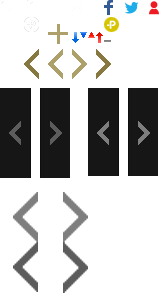
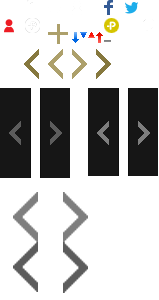
Add files via upload

diff --git a/index.html b/index.html
@@ -11,6 +11,8 @@
     <link rel="stylesheet" href="css/common.css">
     <link rel="stylesheet" href="css/index.css">
     <link rel="stylesheet" type="text/css" href="//cdn.jsdelivr.net/npm/slick-carousel@1.8.1/slick/slick.css" />
+    <link rel="stylesheet" href="https://maxcdn.bootstrapcdn.com/font-awesome/4.7.0/css/font-awesome.min.css">
+    
 
     <script src="//code.jquery.com/jquery-1.11.0.min.js"></script>
     <script src="js/jquery-ui.min.js"></script>
@@ -78,12 +80,27 @@
                 </div><!-- //gnb -->
                 <div class="sns">
                     <ul class="link">
-
-                        <li><a href="#a">search</a></li>
-                        <li><a href="#a">facebook</a></li>
-                        <li><a href="#a">twitter</a></li>
-                        <li><a href="#a">kakao</a></li>
-                        <li><a href="#a">asiae</a></li>
+                        <li>
+                            <a href="#a" title="검색하기">
+                                <i class="fa fa-search" aria-hidden="true"></i>
+                            </a>
+                        </li>
+                        <li>
+                            <a href="https://www.facebook.com/asiaeconomy?_rdr=p">
+                                <i class="fa fa-facebook" aria-hidden="true"></i>
+                            </a>
+                        </li>
+                        <li>
+                            <a href="https://twitter.com/asiae_daily">
+                                <i class="fa fa-twitter" aria-hidden="true"></i>
+                            </a>
+                        </li>
+                        <li>
+                            <a href="https://pf.kakao.com/_CkZed">kakao</a>
+                        </li>
+                        <li>
+                            <a href="https://user.asiae.co.kr/snslogin/index.htm?udt=1">asiae</a>
+                        </li>
                     </ul>
                 </div><!-- //sns -->
             </div><!-- //header -->
@@ -249,19 +266,19 @@
             <div class="content notice">
                 <h4 class="stock_tit">방산기업<span>주가지수</span></h4>
                 <div class="stock">
-                    <ul class="index">
-                        <li>
-                            <em>금호타이어</em>
-                            <p class="txt">
-                                <span>현재가</span>
-                                <span>전일대비</span>
-                            </p>
-                            <p class="number">
-                                <span>4,140</span>
-                                <span class="date up">25</span>
-                            </p>
-                        </li><!-- //index li_01 -->
-                        <li>
+                    <div class="index"> 
+                            <div>  
+                                <em>금호타이어</em>
+                                <p class="txt">
+                                    <span>현재가</span>
+                                    <span>전일대비</span>
+                                </p>
+                                <p class="number">
+                                    <span>4,140</span>
+                                    <span class="date up">25</span>
+                                </p>
+                            </div><!-- //index li_01 -->
+                        <div>
                             <em>기아차</em>
                             <p class="txt">
                                 <span>현재가</span>
@@ -271,8 +288,8 @@
                                 <span>42,500</span>
                                 <span class="date down">450</span>
                             </p>
-                        </li><!-- //index li_02 -->
-                        <li>
+                        </div><!-- //index li_02 -->
+                        <div>
                             <em>대원강업</em>
                             <p class="txt">
                                 <span>현재가</span>
@@ -282,8 +299,8 @@
                                 <span>3,920</span>
                                 <span class="date up">15</span>
                             </p>
-                        </li><!-- //index li_03 -->
-                        <li>
+                        </div><!-- //index li_03 -->
+                        <div>
                             <em>대우조선해양</em>
                             <p class="txt">
                                 <span>현재가</span>
@@ -293,8 +310,8 @@
                                 <span>26,850</span>
                                 <span class="date down">150</span>
                             </p>
-                        </li><!-- //index li_04 -->
-                        <li>
+                        </div><!-- //index li_04 -->
+                        <div>
                             <em>대한항공</em>
                             <p class="txt">
                                 <span>현재가</span>
@@ -304,10 +321,162 @@
                                 <span>23,250</span>
                                 <span class="date up">200</span>
                             </p>
-                        </li><!-- //index li_05 -->
-                    </ul>
-                    <a href="#a" class="btn prev"></a>
-                    <a href="#a" class="btn next"></a>
+                        </div><!-- //index li_05 -->
+                        <div>
+                            <em>두산엔진</em>
+                            <p class="txt">
+                                <span>현재가</span>
+                                <span>전일대비</span>
+                            </p>
+                            <p class="number">
+                                <span>3,140</span>
+                                <span class="date down">125</span>
+                            </p>
+                        </div><!-- //index li_06 -->
+                        <div>
+                            <em>두산인프라코어</em>
+                            <p class="txt">
+                                <span>현재가</span>
+                                <span>전일대비</span>
+                            </p>
+                            <p class="number">
+                                <span>6,080</span>
+                                <span class="date down">40</span>
+                            </p>
+                        </div><!-- //index li_07 -->
+                        <div>
+                            <em>두산중공업</em>
+                            <p class="txt">
+                                <span>현재가</span>
+                                <span>전일대비</span>
+                            </p>
+                            <p class="number">
+                                <span>5,770</span>
+                                <span class="date down">120</span>
+                            </p>
+                        </div><!-- //index li_08 -->
+                        <div>
+                            <em>삼성테크원</em>
+                            <p class="txt">
+                                <span>현재가</span>
+                                <span>전일대비</span>
+                            </p>
+                            <p class="number">
+                                <span>38,700</span>
+                                <span class="date up">200</span>
+                            </p>
+                        </div><!-- //index li_09 -->
+                        <div>
+                            <em>현대위아</em>
+                            <p class="txt">
+                                <span>현재가</span>
+                                <span>전일대비</span>
+                            </p>
+                            <p class="number">
+                                <span>41,400</span>
+                                <span class="date down">800</span>
+                            </p>
+                        </div><!-- //index li_10 -->
+                        <div>
+                            <em>풍산</em>
+                            <p class="txt">
+                                <span>현재가</span>
+                                <span>전일대비</span>
+                            </p>
+                            <p class="number">
+                                <span>21,600</span>
+                                <span class="date down">250</span>
+                            </p>
+                        </div><!-- //index li_11 -->
+                        <div>
+                            <em>한국항공우주</em>
+                            <p class="txt">
+                                <span>현재가</span>
+                                <span>전일대비</span>
+                            </p>
+                            <p class="number">
+                                <span>38,850</span>
+                                <span class="date down">50</span>
+                            </p>
+                        </div><!-- //index li_12 -->
+                        <div>
+                            <em>한진중공업</em>
+                            <p class="txt">
+                                <span>현재가</span>
+                                <span>전일대비</span>
+                            </p>
+                            <p class="number">
+                                <span>4,850</span>
+                                <span class="date down">200</span>
+                            </p>
+                        </div><!-- //index li_13 -->
+                        <div>
+                            <em>한화</em>
+                            <p class="txt">
+                                <span>현재가</span>
+                                <span>전일대비</span>
+                            </p>
+                            <p class="number">
+                                <span>23,600</span>
+                                <span class="date down">50</span>
+                            </p>
+                        </div><!-- //index li_14 -->
+                        <div>
+                            <em>현대중공업</em>
+                            <p class="txt">
+                                <span>현재가</span>
+                                <span>전일대비</span>
+                            </p>
+                            <p class="number">
+                                <span>105,000</span>
+                                <span class="date down">3,500</span>
+                            </p>
+                        </div><!-- //index li_15 -->
+                        <div>
+                            <em>S&amp;T대우</em>
+                            <p class="txt">
+                                <span>현재가</span>
+                                <span>전일대비</span>
+                            </p>
+                            <p class="number">
+                                <span>51,300</span>
+                                <span class="date down">600</span>
+                            </p>
+                        </div><!-- //index li_16 -->
+                        <div>
+                            <em>S&amp;T중공업</em>
+                            <p class="txt">
+                                <span>현재가</span>
+                                <span>전일대비</span>
+                            </p>
+                            <p class="number">
+                                <span>5,950</span>
+                                <span class="date down">160</span>
+                            </p>
+                        </div><!-- //index li_17 -->
+                        <div>
+                            <em>STX엔진</em>
+                            <p class="txt">
+                                <span>현재가</span>
+                                <span>전일대비</span>
+                            </p>
+                            <p class="number">
+                                <span>7,210</span>
+                                <span class="date down">170</span>
+                            </p>
+                        </div><!-- //index li_18 -->
+                        <div>
+                            <em>광림</em>
+                            <p class="txt">
+                                <span>현재가</span>
+                                <span>전일대비</span>
+                            </p>
+                            <p class="number">
+                                <span>2,620</span>
+                                <span class="date down">55</span>
+                            </p>
+                            </div><!-- //index li_19 -->
+                        </div><!-- //index_wrap -->   
                 </div><!-- //stock -->
                 <div class="bidding">
                     <h4 class="bid_tit">방산<span>입찰공고</span></h4>

diff --git a/css/index.css b/css/index.css
@@ -20,17 +20,18 @@
 .header .gnb .menu li:first-child a .txt .line {width: 100%;}
 
 .header .sns {right: 0; bottom: 56px; }
-.header .sns .link {overflow: hidden;}
-.header .sns .link li {float: left;padding: 0 10px;}
-.header .sns .link li a {display: block; width: 17px; height: 17px; text-indent: -999em; background: url(../img/sns_icon.png) no-repeat; }
-.header .sns .link li:nth-child(2) a {background-position: -24px 0px;}
-.header .sns .link li:nth-child(3) a {background-position: -48px 0px;}
-.header .sns .link li:nth-child(4) a {background-position: -24px -16px;}
-.header .sns .link li:nth-child(5) a {background-position: -72px 0px;}
-.header .sns .link li:nth-child(2):hover a {background-position: -104px 0px;}
-.header .sns .link li:nth-child(3):hover a {background-position: -125px 0px;}
-.header .sns .link li:nth-child(4):hover a {background-position: -104px -16px;}
-.header .sns .link li:nth-child(5):hover a {background-position: -149px 0px;}
+.header .sns .link {overflow: hidden;height: 28px;}
+.header .sns .link li {float: left; }
+.header .sns .link li a {padding: 5px; display: block;width: 17px; height: 17px;text-align: center; line-height: 17px; font-size: 17px;}
+
+.header .sns .link li:nth-child(1) a {padding-top: 4px;position: relative; padding-right: 9px;}
+.header .sns .link li:nth-child(1) a:after {content: ''; position: absolute; right: 0; top:8px; width: 1px; height: 15px; background: #fff;}
+.header .sns .link li:nth-child(2) a:hover .fa-facebook {color:#345b95;}
+.header .sns .link li:nth-child(3) a:hover .fa-twitter {color:#1dadeb;}
+
+.header .sns .link li:nth-child(4) a {margin: 6px 5px 0 5px;padding: 0; background: url(../img/sns_icon.png) no-repeat -24px -17px; color: transparent;}
+.header .sns .link li:nth-child(4):hover a { background: url(../img/sns_icon.png) no-repeat -103px -17px; }
+.header .sns .link li:nth-child(5) a {margin: 6px 5px 0 5px;padding: 0; background: url(../img/sns_icon.png) no-repeat 0px -17px; color: transparent;}
 
 /* Content_main */
 .main {overflow: hidden; height: 420px;}
@@ -83,25 +84,27 @@
 .notice .stock_tit {padding-bottom: 10px;font-size: 15px;font-weight: 700; letter-spacing: -1px; background:#1c1c1c;}
 .notice .stock_tit span {padding-left: 5px;font-weight: 700; letter-spacing: 0; color: #ada06b;}
 
-.notice .stock {padding: 0 31px;position: relative; width: 100%; border-top: 1px solid #2d2d2d;border-bottom: 1px solid #2d2d2d; box-sizing: border-box;}
-.notice .stock .index {overflow: hidden;}
-.notice .stock .index li {overflow: hidden; padding: 15px; float: left;width: 187px;height: 90px;border-right: 1px solid #2d2d2d; box-sizing: border-box;}
-.notice .stock .index li:nth-child(5n) {border-right: 0;}
-.notice .stock .index li em {display:block; margin-bottom: 5px;font-size: 14px; font-weight: 700; color: #ccc;}
-.notice .stock .index li .txt {float: left;}
-.notice .stock .index li .txt span {display: block; font-size: 13px; line-height: 20px;color: #848484;}
-.notice .stock .index li .number {float: right;}
-.notice .stock .index li .number span {display: block;font-size: 13px; line-height: 20px; font-weight: 700; color: #ababab;}
-.notice .stock .index li .number .up {padding-left: 10px; position: relative;display: inline-block;float: right;color: red;}
-.notice .stock .index li .number .up:before{position: absolute; top: 7px; left: 0; content: '';display: block; width: 7px; height: 6px; background: url(../img/sns_icon.png) no-repeat; background-position: -88px -32px;}
-.notice .stock .index li .number .down {padding-left: 10px; position: relative;display: inline-block;float: right;color: blue;}
-.notice .stock .index li .number .down:before{position: absolute; top: 8px; left: 0; content: '';display: block; width: 7px; height: 6px; background: url(../img/sns_icon.png) no-repeat; background-position: -80px -32px;}
+.notice .stock {overflow: hidden; padding: 0 31px;width: 100%; height: 90px; border-top: 1px solid #2d2d2d;border-bottom: 1px solid #2d2d2d; box-sizing: border-box;}
+.notice .stock .index {position: relative; width: 100%; height: 90px;}
 
-.notice .stock .btn {position: absolute;top: 50%; transform: translateY(-50%); width: 31px;height: 90px;background: url(../img/sns_icon.png) no-repeat;}
-.notice .stock .prev {left: 0; background-position: -88px -88px;}
-.notice .stock .prev:hover {background-position: 0px -88px;} 
-.notice .stock .next {right: 0; background-position: -128px -88px;}
-.notice .stock .next:hover {background-position: -40px -88px;}
+.notice .stock .index .slick-arrow {position: absolute;top: 50%; transform: translateY(-50%); width: 31px;height: 90px;background: url(../img/sns_icon.png) no-repeat; text-indent: -999em;}
+.notice .stock .index .slick-prev {left: -31px; background-position: -88px -88px;}
+.notice .stock .index .slick-prev:hover {background-position: 0px -88px;} 
+.notice .stock .index .slick-next {right: -31px; background-position: -128px -88px;}
+.notice .stock .index .slick-next:hover {background-position: -40px -88px;}
+
+.notice .stock .index .slick-slide  {overflow: hidden; padding: 15px; float: left;width: 187px;height: 90px;border-right: 1px solid #2d2d2d; box-sizing: border-box;}
+.notice .stock .index .slick-slide em {display:block; margin-bottom: 5px;font-size: 14px; font-weight: 700; color: #ccc;}
+.notice .stock .index .slick-slide .txt {float: left;}
+.notice .stock .index .slick-slide .txt span {display: block; font-size: 13px; line-height: 20px;color: #848484;}
+.notice .stock .index .slick-slide .number {float: right;}
+.notice .stock .index .slick-slide .number span {display: block;font-size: 13px; line-height: 20px; font-weight: 700; color: #ababab;}
+.notice .stock .index .slick-slide .number .up {padding-left: 10px; position: relative;display: inline-block;float: right;color: red;}
+.notice .stock .index .slick-slide .number .up:before{position: absolute; top: 7px; left: 0; content: '';display: block; width: 7px; height: 6px; background: url(../img/sns_icon.png) no-repeat; background-position: -88px -32px;}
+.notice .stock .index .slick-slide .number .down {padding-left: 10px; position: relative;display: inline-block;float: right;color: blue;}
+.notice .stock .index .slick-slide .number .down:before{position: absolute; top: 8px; left: 0; content: '';display: block; width: 7px; height: 6px; background: url(../img/sns_icon.png) no-repeat; background-position: -80px -32px;}
+
+
 
 .notice .bidding {margin-top: 15px; }
 .notice .bidding .bid_tit {margin-top: 20px;padding-bottom: 10px;font-size: 15px;font-weight: 700; letter-spacing: -1px; background:#1c1c1c;}

diff --git a/js/index.js b/js/index.js
@@ -9,6 +9,13 @@ $(document).ready(function(){
         cssEase: 'linear'
     });
     
+    //주가지수_slider
+    $('.index').slick({
+      slidesToShow: 5,
+      slidesToScroll: 1,
+      autoplay: true,
+      autoplaySpeed: 2000
+    });
     
     //국방photo_slider
     $('.p_slick').slick({
